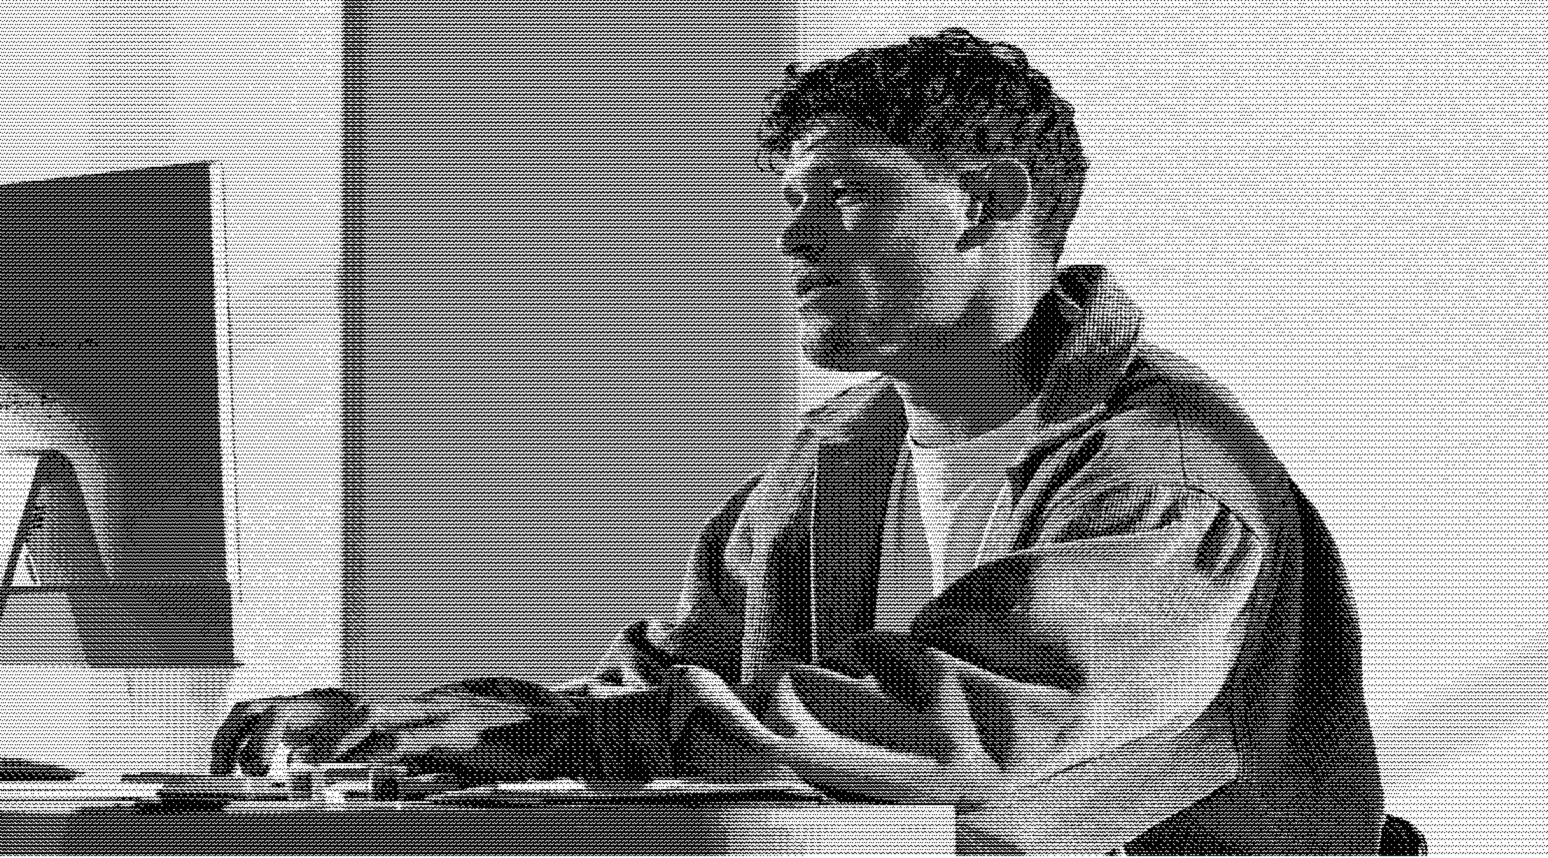
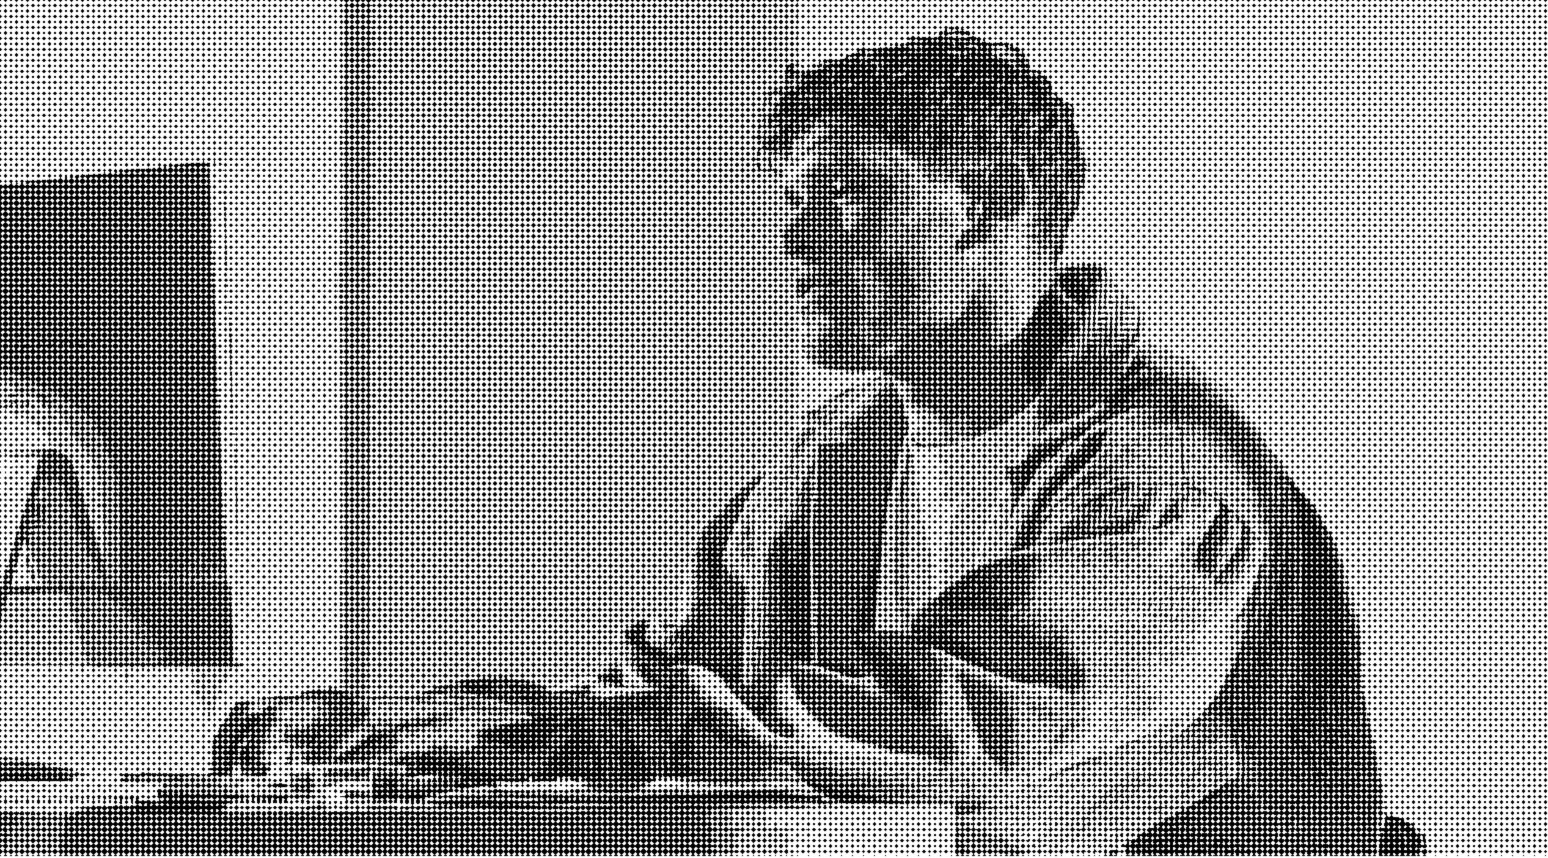
MCP landing: slider photos from Figma 373:4753 (MARKET-3060)
Desk and dock slides share one Pattern Screen: diamond checker, scale 5.5, contrast 1.35 (was wavy lines on the
desk, horizontal lines on the dock). The baked fallbacks are re-exported from 373:4752 / 373:4751; same source
photos and crops.

diff --git a/mcp-landing.html b/mcp-landing.html
@@ -706,7 +706,7 @@ html.is-embed .products-menu { top: 64px; max-height: calc(100dvh - 64px); }
 .scene .photo img, .scene .photo canvas { position: absolute; inset: 0; width: 100%; height: 100%; object-fit: cover; }
 /* Dock photo sits where Figma placed it (Rectangle 38, 362:14814: 127.55% × 127.71%, offset up and left); the shader host draws it at this box */
 :is(.scene-ask, .scene-c) .photo img.source { left: -3%; top: -27.72%; width: 127.55%; height: 127.71%; }
-/* Each slide shows Figma's own shaded render (343:4253 desk, 343:4276 dock) until the live shader takes over, and in its place
+/* Each slide shows Figma's own shaded render (373:4752 desk, 373:4751 dock) until the live shader takes over, and in its place
    where WebGPU isn't available; the colour photo underneath is only the shader's input */
 .scene .photo img.source { visibility: hidden; }
 .scene .photo canvas { opacity: 0; }
@@ -1438,7 +1438,7 @@ a.app-tile:hover { border-color: rgba(255,255,255,0.7); background-color: rgba(2
       </div>
 
       <div class="scene scene-ask" data-dur="3.75">
-        <div class="photo" data-shader="lines"><img class="shaded" src="assets/mcp-landing/dock-shaded.png" alt=""><img class="source" src="assets/mcp-landing/dock-phone.jpg" alt=""></div>
+        <div class="photo" data-shader><img class="shaded" src="assets/mcp-landing/dock-shaded.png" alt=""><img class="source" src="assets/mcp-landing/dock-phone.jpg" alt=""></div>
         <div class="composer is-empty" data-bold="Just include this in all pickup notes:" data-question="Carrier must have a TWIC card">
           <div class="typed"><span class="placeholder">Reply…</span><span class="typed-text"></span><span class="caret"></span></div>
           <img class="plus" src="assets/mcp-landing/composer-plus-lg.svg" alt="">
@@ -1447,7 +1447,7 @@ a.app-tile:hover { border-color: rgba(255,255,255,0.7); background-color: rgba(2
       </div>
 
       <div class="scene scene-c" data-dur="7.875">
-        <div class="photo" data-shader="lines"><img class="shaded" src="assets/mcp-landing/dock-shaded.png" alt="Shipper on the dock checking a phone"><img class="source" src="assets/mcp-landing/dock-phone.jpg" alt=""></div>
+        <div class="photo" data-shader><img class="shaded" src="assets/mcp-landing/dock-shaded.png" alt="Shipper on the dock checking a phone"><img class="source" src="assets/mcp-landing/dock-phone.jpg" alt=""></div>
         <div class="phone">
           <div class="screen">
             <div class="topbar">
@@ -3031,9 +3031,8 @@ fn rotateUV(p: vec2f, angle: f32) -> vec2f {
 /* Minimal host: feeds the photo (object-fit: cover at the layer's size) in as the input texture at the
    layer's design size. Params match the Figma effect. The ripple re-renders ~30fps, only the slide on show,
    only while the slider is on screen; reduced motion gets the still frame. */
-const SHADER_PARAMS = { patternAngle: 0, contrast: 1, bgColor: { r: 0, g: 0, b: 0, a: 1 }, patternScale: 3.5, tintColor: { r: 1, g: 1, b: 1, a: 1 }, patternMode: 6 };
-// The dock slides (data-shader="lines", Figma 343:4276 / 324:6918): straight horizontal lines, wider, softer contrast
-const LINE_PARAMS = { patternMode: 1, patternScale: 6, contrast: 0.7 };
+// Figma 373:4752 (desk) / 373:4751 (dock): one diamond-checker screen on every slide
+const SHADER_PARAMS = { patternAngle: 0, contrast: 1.35, bgColor: { r: 0, g: 0, b: 0, a: 1 }, patternScale: 5.5, tintColor: { r: 1, g: 1, b: 1, a: 1 }, patternMode: 7 };
 async function applyPatternScreen() {
   if (!navigator.gpu) { console.info('Pattern Screen shader needs WebGPU; showing the unshaded photos.'); return; }
   const adapter = await navigator.gpu.requestAdapter();
@@ -3058,8 +3057,7 @@ async function applyPatternScreen() {
     const ctx = canvas.getContext('webgpu');
     ctx.configure({ device, format, alphaMode: 'premultiplied' });
     // patternScale is in output pixels; scale with dpr so the lines match the 1x design
-    const params = layer.dataset.shader === 'lines' ? { ...SHADER_PARAMS, ...LINE_PARAMS } : SHADER_PARAMS;
-    const frame = { state: {}, params: { ...params, patternScale: params.patternScale * dpr }, input, output: null, time: 0, ripple: reducedMotion ? 0 : 1, box: rippleBox(layer, w) };
+    const frame = { state: {}, params: { ...SHADER_PARAMS, patternScale: SHADER_PARAMS.patternScale * dpr }, input, output: null, time: 0, ripple: reducedMotion ? 0 : 1, box: rippleBox(layer, w) };
     PatternScreen.setup(device, frame);
     frame.output = ctx.getCurrentTexture();
     PatternScreen.render(device, frame);
